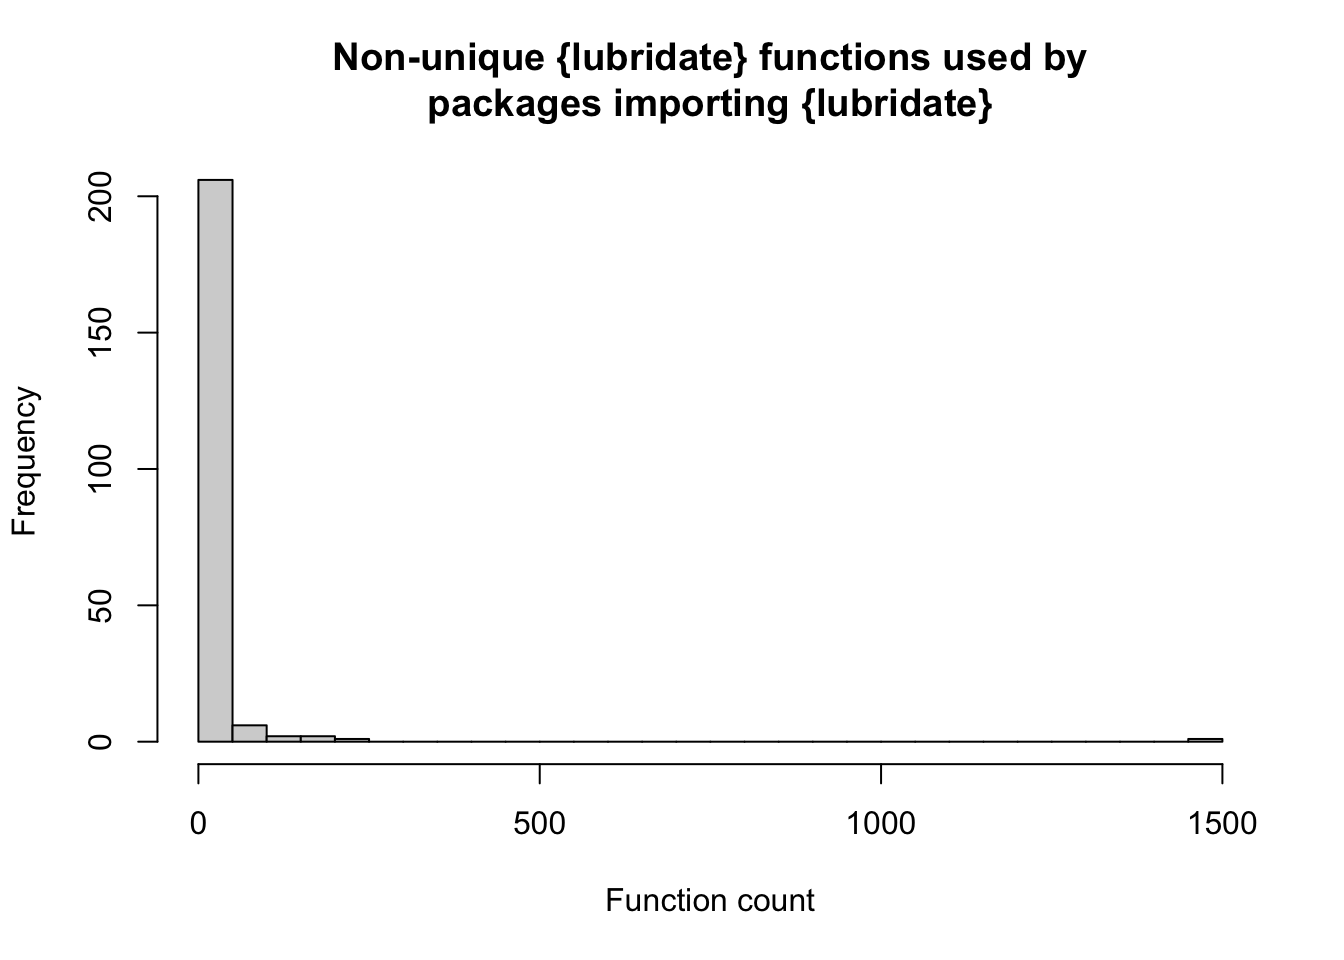
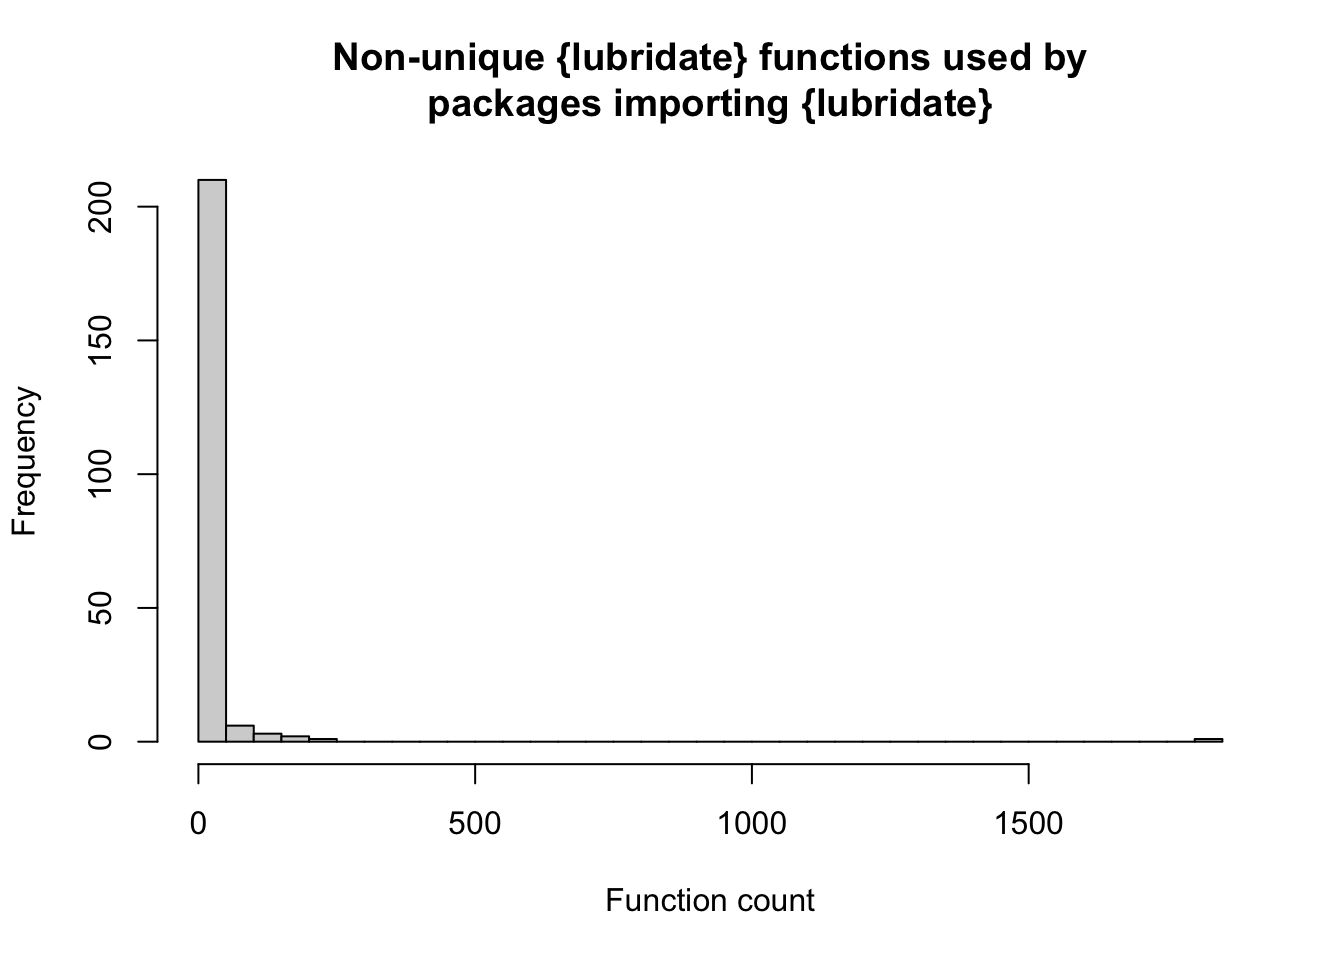
Add lubridate post

diff --git a/content/post/2021-10-12-lubridate-fns.html b/content/post/2021-10-12-lubridate-fns.html
@@ -1,7 +1,7 @@
 ---
 title: "{itdepends} on {lubridate}"
 author: Matt Dray
-date: '2021-10-24'
+date: '2021-11-27'
 slug: lubridate-fns
 categories:
   - code
@@ -11,26 +11,29 @@ tags:
   - itdepends
   - lubridate
   - r
-draft: yes
+draft: no
 ---
 
 <script src="/rmarkdown-libs/header-attrs/header-attrs.js"></script>
 
 
+<div class="figure">
+<p><img src="/post/2021-10-12-lubridate-fns_files/calndar.png" alt="A crudely-drawn calendar that says '1 dependency' in the style of a date" width="50%"/></p>
+</div>
 <div id="tldr" class="section level1">
 <h1>tl;dr</h1>
-<p>I used <a href="https://github.com/r-lib/itdepends">the {itdepends} R package</a> to see how CRAN packages depend on <a href="https://lubridate.tidyverse.org/">{lubridate}</a>, which <a href="What%20if%20%5Bthe%20%7Blubridate%7D%20package%20was%20removed%20from%20CRAN%5D(https://github.com/tidyverse/lubridate/issues/998)?">was not removed from CRAN</a> recently.</p>
+<p>I used <a href="https://github.com/r-lib/itdepends">{itdepends}</a> to see how CRAN packages depend on <a href="https://lubridate.tidyverse.org/">{lubridate}</a>, which <a href="What%20if%20%5Bthe%20%7Blubridate%7D%20package%20was%20removed%20from%20CRAN%5D(https://github.com/tidyverse/lubridate/issues/998)?">was <em>not</em> removed from CRAN</a> recently.</p>
 </div>
 <div id="lubrigate" class="section level1">
 <h1>Lubrigate</h1>
 <p>A test failure in <a href="https://lubridate.tidyverse.org/">{lubridate}</a> led to hundreds of R developers being emailed about <a href="https://github.com/tidyverse/lubridate/issues/998">its potential expulsion from CRAN</a>, which also threatened the hundreds of packages that depend on it.</p>
-<p>I see the benefit of minimising dependencies. I also understand the drawbacks of reinventing the wheel. Maybe {lubridate} is a good dependency: a clean API, part of the well-known tidyverse and it handles stuff you can’t be bothered with, like what’s 29 February plus one year?</p>
+<p>I see the benefit of minimising dependencies. I also understand the drawbacks of reinventing the wheel. Maybe {lubridate} is a good dependency: a simple API, part of the popular {tidyverse}, and it handles stuff you can’t be bothered with (like what’s 29 February plus one year?).</p>
 <p><a href="https://www.tidyverse.org/blog/2019/05/itdepends/">Jim Hester spoke at rstudio::conf(2019) about dependencies</a>. His <a href="https://github.com/r-lib/itdepends">{itdepends}</a> package helps you understand the scale and impact of your dependencies.</p>
 <p>So, for fun, I’m looking at how {lubridate} is used by packages that import it.</p>
 </div>
-<div id="get-cran-packages" class="section level1">
-<h1>Get CRAN packages</h1>
-<p><code>CRAN_package_db()</code> is a convenient function that returns information about packages available on CRAN. We can filter if for the packages that import {lubridate}, i.e. they have {lubridate} in the <code>Imports</code> section of their DESCRIPTION file.</p>
+<div id="crank-it-up" class="section level1">
+<h1>CRANk it up</h1>
+<p><code>CRAN_package_db()</code> is a convenient function that returns information about packages available on CRAN. We can filter it for the packages that import {lubridate}, i.e. they have {lubridate} in the <code>Imports</code> section of their DESCRIPTION file.</p>
 <pre class="r"><code>library(dplyr, warn.conflicts = FALSE)
 library(tidyr)
 library(stringr)
@@ -42,13 +45,12 @@ imports_lubridate &lt;- cran |&gt;
   pull(Package)
 
 sample(imports_lubridate, 5)  # random sample</code></pre>
-<pre><code>## [1] &quot;radiant.model&quot; &quot;GetBCBData&quot;    &quot;eplusr&quot;        &quot;sweidnumbr&quot;   
-## [5] &quot;weaana&quot;</code></pre>
-<p>Right, so that’s 486 packages out of 18374 (3%). Is that a lot? Well, the tidyverse package {dplyr}, the Swiss Army knife of data wrangling, is listed in the Imports of 2308.</p>
+<pre><code>## [1] &quot;quantdates&quot;  &quot;GetDFPData2&quot; &quot;esmprep&quot;     &quot;strand&quot;      &quot;votesmart&quot;</code></pre>
+<p>Right, so that’s 494 packages out of 18515 (3%). Is that a lot? Well, the tidyverse package {dplyr}, the Swiss Army knife of data wrangling, is listed in the <code>Imports</code> of 2353.</p>
 </div>
-<div id="install-all" class="section level1">
-<h1>Install all</h1>
-<p>So, perhaps this is a little nuts, but we’re going to install all the {lubridate}-dependent packages. {itdepends} works with locally-installed packages, you see.</p>
+<div id="install" class="section level1">
+<h1>InstALL</h1>
+<p>So, perhaps this is a little nuts, but we’re going to install <em>all</em> the {lubridate}-dependent packages because {itdepends} works with locally-installed packages.</p>
 <pre class="r"><code>tmp &lt;- tempdir()  # temporary folder
 
 purrr::walk(
@@ -60,13 +62,13 @@ purrr::walk(
     repos = &quot;https://cran.ma.imperial.ac.uk/&quot;  # mirror
   )
 )</code></pre>
-<p>This takes a little while. There’s probably faster methods, like maybe <a href="https://pak.r-lib.org/">the {pak} package</a>, but I just used what worked.</p>
+<p>This takes a little while. There’s probably faster methods, like maybe <a href="https://pak.r-lib.org/">the {pak} package</a>, but for now I just used what worked.</p>
 </div>
-<div id="itdepends" class="section level1">
-<h1>{itdepends}</h1>
-<p>{itdepends} is available from GitHub.</p>
+<div id="it-depends-on-itdepends" class="section level1">
+<h1>It depends on {itdepends}</h1>
+<p>{itdepends} is not available from CRAN, but you can install from GitHub.</p>
 <pre class="r"><code>remotes::install_github(&quot;jimhester/itdepends&quot;)</code></pre>
-<p>Now we can pass each of these package names to the <code>dep_usage_package()</code> function of {itdepends} in a loop. We get back a dataframe for each package, listing each function call it makes and the package that the function comes from.</p>
+<p>Now we can pass each of package name to the <code>dep_usage_package()</code> function of {itdepends} in a loop. We get back a dataframe for each package, listing each function call it makes and the package that the function comes from.</p>
 <p>I’ve added a mildly unorthodox use of <code>next</code>, <a href="https://stackoverflow.com/a/55937737">borrowed from StackOverflow</a>, because I was having trouble with the loop after a failure.</p>
 <pre class="r"><code>dep_list &lt;- vector(&quot;list&quot;, length(imports_lubridate)) |&gt; 
   setNames(imports_lubridate)
@@ -75,46 +77,45 @@ for (i in imports_lubridate) {
   
   skip &lt;- FALSE
   
-  tryCatch(
-    { dep_list[[i]] &lt;- itdepends::dep_usage_pkg(i)
-    dep_list[[i]]$focus &lt;- i  },
-    error = function(e) { 
-      dep_list[[i]] &lt;- data.frame(
-        pkg = NA_character_, fun = NA_character_, focus = NA_character_
-      )
-      skip &lt;&lt;- TRUE 
-    }
-  )
+  tryCatch({ 
+    dep_list[[i]] &lt;- itdepends::dep_usage_pkg(i)
+    dep_list[[i]]$focus &lt;- i
+  },
+  error = function(e) { 
+    dep_list[[i]] &lt;- data.frame(
+      pkg   = NA_character_,
+      fun   = NA_character_,
+      focus = NA_character_
+    )
+    skip &lt;&lt;- TRUE 
+  })
   
   if (skip) next
   
 }</code></pre>
 <p>I absolutely do not claim this to be the best, most optimised approach. But it works.</p>
 </div>
-<div id="counting-dependencies" class="section level1">
-<h1>Counting dependencies</h1>
+<div id="dependensheeesh" class="section level1">
+<h1>Dependensheeesh</h1>
 <p>Now that {itdepends} has extracted all the function calls from each of the packages, we can take a look at their frequencies.</p>
 <div id="example" class="section level2">
 <h2>Example</h2>
-<p>Here’s the top 10 most-used functions from the first package alphabetically: {academictwitteR}.</p>
+<p>Here’s the top 10 most-used functions from the first package alphabetically: <a href="https://github.com/cjbarrie/academictwitteR">{academictwitteR}</a>.</p>
 <pre class="r"><code>ex_pkg &lt;- &quot;academictwitteR&quot;
 
 dep_list[[ex_pkg]] |&gt; 
   count(pkg, fun, sort = TRUE) |&gt;
   slice(1:5)</code></pre>
 <pre><code>## # A tibble: 5 × 3
-##   pkg   fun         n
-##   &lt;chr&gt; &lt;chr&gt;   &lt;int&gt;
-## 1 base  &lt;-        193
-## 2 base  {         162
-## 3 base  if         90
-## 4 base  $          70
-## 5 base  is.null    40</code></pre>
-<p>It’s not particularly exciting to know that the top 5 are made up of base R functions like the assignment arrow, the dollar-sign data accessor<a href="#fn1" class="footnote-ref" id="fnref1"><sup>1</sup></a> and the square bracket. We also don’t really care about the package’s internal functions. Let’s filter these out and re-count</p>
-<pre class="r"><code>base_pkgs &lt;- c(
-  &quot;stats&quot;, &quot;graphics&quot;, &quot;grDevices&quot;,
-  &quot;utils&quot;, &quot;datasets&quot;, &quot;methods&quot;, &quot;base&quot;
-)
+##   pkg   fun       n
+##   &lt;chr&gt; &lt;chr&gt; &lt;int&gt;
+## 1 base  &lt;-      228
+## 2 base  {       197
+## 3 base  if      109
+## 4 base  $        90
+## 5 base  !        42</code></pre>
+<p>It’s not particularly exciting to know that the top 5 are made up of base R functions like the assignment arrow (<code>&lt;-</code>) and the dollar-sign (<code>$</code>) data accessor<a href="#fn1" class="footnote-ref" id="fnref1"><sup>1</sup></a> and the square bracket (<code>[</code>). We also don’t really care about the package’s internal functions. Let’s filter out these packages and re-count</p>
+<pre class="r"><code>base_pkgs &lt;- sessionInfo()$basePkgs
 
 dep_list[[ex_pkg]] |&gt;
   filter(!pkg %in% c(base_pkgs, ex_pkg)) |&gt; 
@@ -125,14 +126,14 @@ dep_list[[ex_pkg]] |&gt;
 ##    &lt;chr&gt;     &lt;chr&gt;          &lt;int&gt;
 ##  1 lifecycle deprecate_soft    16
 ##  2 magrittr  %&gt;%               14
-##  3 dplyr     bind_rows          7
+##  3 dplyr     bind_rows          8
 ##  4 dplyr     left_join          5
 ##  5 dplyr     select_if          5
-##  6 jsonlite  read_json          4
-##  7 tibble    tibble             4
-##  8 dplyr     distinct           3
-##  9 dplyr     select             3
-## 10 purrr     map_dfr            3</code></pre>
+##  6 httr      status_code        4
+##  7 jsonlite  read_json          4
+##  8 purrr     map_dfr            4
+##  9 tibble    tibble             4
+## 10 dplyr     distinct           3</code></pre>
 <p>Aha. We can see immediately that the authors have made use of tidyverse to write their package, since you can see {dplyr}, {tibble}, etc, in there. This makes the use of {lubridate} relatively unsurprising.</p>
 <p>Here’s the {lubridate} functions used by this package.</p>
 <pre class="r"><code>dep_list[[ex_pkg]] |&gt;
@@ -162,12 +163,12 @@ pkg_fn_count |&gt; slice(1:5)</code></pre>
 <pre><code>## # A tibble: 5 × 3
 ##   focus        fun         n
 ##   &lt;chr&gt;        &lt;chr&gt;   &lt;int&gt;
-## 1 PriceIndices month     887
-## 2 PriceIndices year      534
+## 1 PriceIndices month    1096
+## 2 PriceIndices year      678
 ## 3 tidyndr      as_date    53
 ## 4 RClimacell   with_tz    52
 ## 5 RobinHood    ymd_hms    52</code></pre>
-<p>Holy moley, the {PriceIndices} package calls <code>month()</code> and <code>year()</code>, used to extract elements of a date, over 1400 times.</p>
+<p>Holy moley, the {PriceIndices} package calls <code>month()</code> and <code>year()</code>, used to extract elements of a date, over 1400 times combined.</p>
 </div>
 <div id="unique-function-use-by-package" class="section level3">
 <h3>Unique function use by package</h3>
@@ -182,10 +183,10 @@ fn_distinct_count |&gt; slice(1:5)</code></pre>
 ##   focus              n
 ##   &lt;chr&gt;          &lt;int&gt;
 ## 1 photobiology      26
-## 2 fmdates           21
-## 3 finbif            15
-## 4 xml2relational    15
-## 5 card              12</code></pre>
+## 2 mctq              25
+## 3 fmdates           21
+## 4 finbif            15
+## 5 xml2relational    15</code></pre>
 <p>So these packages are using more than 10 unique functions from {lubridate}, which is pretty extensive usage.</p>
 <p>A quick histogram reveals that a large number of packages are actually using just a single {lubridate} function.</p>
 <pre class="r"><code>hist(
@@ -194,7 +195,7 @@ fn_distinct_count |&gt; slice(1:5)</code></pre>
   main = &quot;Unique {lubridate} functions used by\npackages importing {lubridate}&quot;,
   xlab = &quot;Function count&quot;
 )</code></pre>
-<p><img src="/post/2021-10-12-lubridate-fns_files/figure-html/hist-unique-lubridate-fns-1.png" width="672" /></p>
+<p><img src="/post/2021-10-12-lubridate-fns_files/figure-html/hist-unique-lubridate-fns-1.png" title="Histrogram of unique lubridate functions used by the packages that import lubridate. The vast majority are using 1 or 2, with a long tail out to about 25." alt="Histrogram of unique lubridate functions used by the packages that import lubridate. The vast majority are using 1 or 2, with a long tail out to about 25." width="672" /></p>
 <p>So, of these packages that use just one {lubridate} function, which function is the most frequent?</p>
 <pre class="r"><code>focus_one_fn &lt;- fn_distinct_count |&gt;
   filter(n == 1) |&gt;
@@ -207,17 +208,17 @@ pkg_fn_count |&gt;
 <pre><code>## # A tibble: 5 × 2
 ##   fun             n
 ##   &lt;chr&gt;       &lt;int&gt;
-## 1 as_date         6
-## 2 ymd             6
-## 3 ymd_hms         6
-## 4 as_datetime     5
+## 1 as_datetime     7
+## 2 as_date         6
+## 3 ymd             6
+## 4 ymd_hms         6
 ## 5 is.Date         4</code></pre>
 <p>Looks like some pretty standard functions, like converting to a date (<code>as_date()</code>, <code>as_datetime()</code>) or to parse dates with a particular time component (<code>ymd_hms</code> for year, month, date, hour, minute, seconds, and <code>ymd()</code>).</p>
-<p>I think this is interesting: some packages are importing {lubridate} in its entirety to use a single function. And thse functions have base R equivalents with no package-dependency cost. Without diving too deep, this implies that people are using {lubridate} because of syntax familiarity or perhaps because they’re already loading other tidyverse packages anyway.</p>
+<p>I think this is interesting: some packages are importing {lubridate} in its entirety to use a single function. And these functions have base R equivalents with no package-dependency cost. Without diving too deep, this implies that people are using {lubridate} because of syntax familiarity or perhaps because they’re already loading other tidyverse packages anyway.</p>
 </div>
 <div id="non-unique-function-use-by-package" class="section level3">
 <h3>Non-unique function use by package</h3>
-<p>What about total calls?</p>
+<p>What about total calls by each package?</p>
 <pre class="r"><code>fn_nondistinct_count &lt;- dep_df |&gt;
   filter(pkg == &quot;lubridate&quot;) |&gt;
   count(focus, sort = TRUE)
@@ -236,25 +237,92 @@ dep_df |&gt;
 ##   focus        n_total n_lub percent_lub
 ##   &lt;chr&gt;          &lt;int&gt; &lt;int&gt;       &lt;dbl&gt;
 ## 1 RClimacell      2241   225        10  
-## 2 PriceIndices   18207  1453         8  
-## 3 riem             113     9         8  
-## 4 quantdates       534    42         7.9
-## 5 rtrends          101     8         7.9</code></pre>
-<p>And another quick histogram.</p>
+## 2 riem             113     9         8  
+## 3 quantdates       534    42         7.9
+## 4 rtrends          101     8         7.9
+## 5 PriceIndices   23235  1805         7.8</code></pre>
+<p>Wow, 10% of calls by <a href="https://nikdata.github.io/RClimacell/">the {RClimacell} package</a> involve {lubridate} functions. Make sense: this package relates to weather readings at certain time intervals.</p>
+<p>And another quick histogram of what the distribution looks like.</p>
 <pre class="r"><code>hist(
   fn_nondistinct_count$n,
   breaks = 30,
   main = &quot;Non-unique {lubridate} functions used by\npackages importing {lubridate}&quot;,
   xlab = &quot;Function count&quot;
 )</code></pre>
-<p><img src="/post/2021-10-12-lubridate-fns_files/figure-html/nonunique-lubridate-count-1.png" width="672" /></p>
-<p>It’d be interesting to do this for all CRAN packages and their dependencies, but I don’t have a personal CRAN mirror and I don’t write particularly performant code.</p>
+<p><img src="/post/2021-10-12-lubridate-fns_files/figure-html/nonunique-lubridate-count-1.png" title="Histogram of non-unique lubridate functions used by packages that import lubridate. The vast majority make fewer than 50 calls." alt="Histogram of non-unique lubridate functions used by packages that import lubridate. The vast majority make fewer than 50 calls." width="672" /></p>
+<p>Huh, so the number of non-unique {lubridate} calls is almost always less than 50 per package. Seems in general that a small number of {lubridate} functions are called per dependent package, but they might be called a lot.</p>
 </div>
 </div>
 </div>
-<div id="so" class="section level1">
-<h1>So</h1>
-<p>Use whatever dependencies you want, it’s up to you. I write joke packages that I don’t put on CRAN, so.</p>
+<div id="you-do-you" class="section level1">
+<h1>You do you</h1>
+<p>Does the information here imply that many developers could consider removing their small number of {lubridate} calls in favour of date-related base functions? Maybe. That’s up to the developers.</p>
+<p>Use whatever dependencies you want, it’s up to you. {itdepends} might be a useful tool for you to work out if you need all the dependencies you have. Other tools are out there; <a href="https://ashbaldry.github.io/2021-11-25-depcheck-r-dependency-checker/">I read recently</a> about <a href="https://github.com/ashbaldry/depcheck">Ashley Baldry’s {depcheck} package</a>, for example</p>
+<p>It might be interesting to do this for all CRAN packages and their dependencies, but I don’t have a personal CRAN mirror and I don’t write particularly performant code.</p>
+<p>Anyway, don’t listen to me: I write joke packages that I don’t put on CRAN, lol.</p>
+<hr />
+<details>
+<summary>
+Session info
+</summary>
+<pre><code>## ─ Session info ───────────────────────────────────────────────────────────────
+##  setting  value                       
+##  version  R version 4.1.0 (2021-05-18)
+##  os       macOS Big Sur 10.16         
+##  system   x86_64, darwin17.0          
+##  ui       X11                         
+##  language (EN)                        
+##  collate  en_GB.UTF-8                 
+##  ctype    en_GB.UTF-8                 
+##  tz       Europe/London               
+##  date     2021-11-28                  
+## 
+## ─ Packages ───────────────────────────────────────────────────────────────────
+##  package     * version date       lib source        
+##  assertthat    0.2.1   2019-03-21 [1] CRAN (R 4.1.0)
+##  blogdown      1.4     2021-07-23 [1] CRAN (R 4.1.0)
+##  bookdown      0.23    2021-08-13 [1] CRAN (R 4.1.0)
+##  bslib         0.3.1   2021-10-06 [1] CRAN (R 4.1.0)
+##  cli           3.1.0   2021-10-27 [1] CRAN (R 4.1.0)
+##  crayon        1.4.2   2021-10-29 [1] CRAN (R 4.1.0)
+##  DBI           1.1.1   2021-01-15 [1] CRAN (R 4.1.0)
+##  digest        0.6.28  2021-09-23 [1] CRAN (R 4.1.0)
+##  dplyr       * 1.0.7   2021-06-18 [1] CRAN (R 4.1.0)
+##  ellipsis      0.3.2   2021-04-29 [1] CRAN (R 4.1.0)
+##  evaluate      0.14    2019-05-28 [1] CRAN (R 4.1.0)
+##  fansi         0.5.0   2021-05-25 [1] CRAN (R 4.1.0)
+##  fastmap       1.1.0   2021-01-25 [1] CRAN (R 4.1.0)
+##  generics      0.1.1   2021-10-25 [1] CRAN (R 4.1.0)
+##  glue          1.5.0   2021-11-07 [1] CRAN (R 4.1.0)
+##  highr         0.9     2021-04-16 [1] CRAN (R 4.1.0)
+##  htmltools     0.5.2   2021-08-25 [1] CRAN (R 4.1.0)
+##  jquerylib     0.1.4   2021-04-26 [1] CRAN (R 4.1.0)
+##  jsonlite      1.7.2   2020-12-09 [1] CRAN (R 4.1.0)
+##  knitr         1.36    2021-09-29 [1] CRAN (R 4.1.0)
+##  lifecycle     1.0.1   2021-09-24 [1] CRAN (R 4.1.0)
+##  magrittr      2.0.1   2020-11-17 [1] CRAN (R 4.1.0)
+##  pillar        1.6.4   2021-10-18 [1] CRAN (R 4.1.0)
+##  pkgconfig     2.0.3   2019-09-22 [1] CRAN (R 4.1.0)
+##  purrr         0.3.4   2020-04-17 [1] CRAN (R 4.1.0)
+##  R6            2.5.1   2021-08-19 [1] CRAN (R 4.1.0)
+##  rlang         0.4.12  2021-10-18 [1] CRAN (R 4.1.0)
+##  rmarkdown     2.10    2021-08-06 [1] CRAN (R 4.1.0)
+##  rstudioapi    0.13    2020-11-12 [1] CRAN (R 4.1.0)
+##  sass          0.4.0   2021-05-12 [1] CRAN (R 4.1.0)
+##  sessioninfo   1.1.1   2018-11-05 [1] CRAN (R 4.1.0)
+##  stringi       1.7.5   2021-10-04 [1] CRAN (R 4.1.0)
+##  stringr     * 1.4.0   2019-02-10 [1] CRAN (R 4.1.0)
+##  tibble        3.1.6   2021-11-07 [1] CRAN (R 4.1.0)
+##  tidyr       * 1.1.3   2021-03-03 [1] CRAN (R 4.1.0)
+##  tidyselect    1.1.1   2021-04-30 [1] CRAN (R 4.1.0)
+##  utf8          1.2.2   2021-07-24 [1] CRAN (R 4.1.0)
+##  vctrs         0.3.8   2021-04-29 [1] CRAN (R 4.1.0)
+##  withr         2.4.2   2021-04-18 [1] CRAN (R 4.1.0)
+##  xfun          0.26    2021-09-14 [1] CRAN (R 4.1.0)
+##  yaml          2.2.1   2020-02-01 [1] CRAN (R 4.1.0)
+## 
+## [1] /Library/Frameworks/R.framework/Versions/4.1/Resources/library</code></pre>
+</details>
 </div>
 <div class="footnotes">
 <hr />
